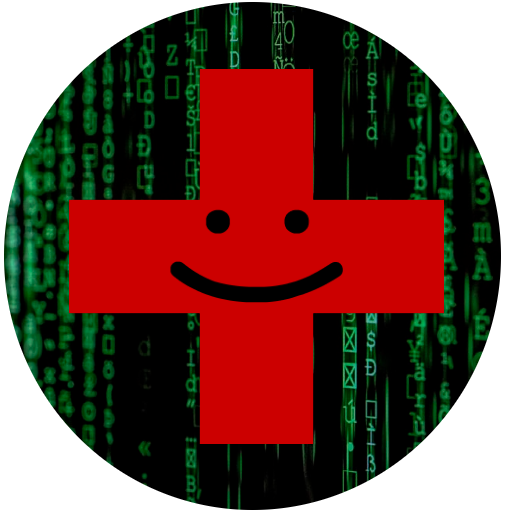
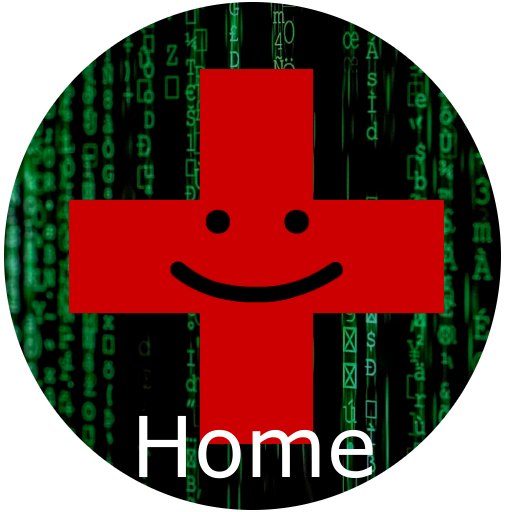
Navigatie aangepast

Changed region(s): [[0.25, 0.8125, 0.75, 0.9375]]

diff --git a/style.css b/style.css
@@ -14,7 +14,7 @@ body {
 
 .homeimage {
   position: relative;
-  top:  80px;
+  top:  0px;
   left: 5px;
 height: 75px;
 width: 75px;
@@ -48,6 +48,15 @@ align-items: center;
 /* Navigation links */
 .nav a {
   float: left;
+  font-size: 16px;
+  color: white;
+  text-align: center;
+  padding: 14px 16px;
+  text-decoration: none;
+}
+
+.subnavbtn {
+  float: center;
   font-size: 16px;
   color: white;
   text-align: center;
@@ -124,6 +133,7 @@ label {
   display:none;
 }
 
+
 @media only screen and (max-width: 500px) {
 label{
   display: block;
@@ -136,6 +146,10 @@ label{
   display: none;
 }
 
+.subnav {
+  float: left;
+  overflow: hidden;
+}
 
 .navall a {
   display: block;
@@ -143,9 +157,42 @@ label{
   width: 100%;
 }
 
-#toggle:checked + .navall {
+.nav a {
+  float: left;
+  font-size: 16px;
+  color: white;
+  text-align: left;
+  padding: 14px 16px;
+  text-decoration: none;
+}
+
+.subnavbtn {
+  float: center;
+  font-size: 16px;
+  color: white;
+  text-align: center;
+  padding: 14px 16px;
+  text-decoration: none;
+}
+
+.navall{
+  display: flex;
+  flex-direction: column;
+  align-items: center;
+  overflow: hidden;
+  display: none;
+}
+
+.subnav {
+  float: center;
+  overflow: hidden;
+
+}
+
+#toggle:checked + .navall  {
   display: block;
- 
+  
+
 }
 }
 

diff --git a/bronvermelding.html b/bronvermelding.html
@@ -32,7 +32,6 @@
   <label for="toggle">&#9776;</label>
   <input type="checkbox" id="toggle"/>
   <div class="navall">
-  <a href="index.html">Home</a>
   <div class="subnav">
     <button class="subnavbtn">Informatie <i class="fa fa-caret-down"></i></button>
     <div class="subnav-content">

diff --git a/contactpagina.html b/contactpagina.html
@@ -31,7 +31,6 @@
   <label for="toggle">&#9776;</label>
   <input type="checkbox" id="toggle"/>
   <div class="navall">
-  <a href="index.html">Home</a>
   <div class="subnav">
     <button class="subnavbtn">Informatie <i class="fa fa-caret-down"></i></button>
     <div class="subnav-content">

diff --git a/hetbelang.html b/hetbelang.html
@@ -31,7 +31,6 @@
   <label for="toggle">&#9776;</label>
   <input type="checkbox" id="toggle"/>
   <div class="navall">
-  <a href="index.html">Home</a>
   <div class="subnav">
     <button class="subnavbtn">Informatie <i class="fa fa-caret-down"></i></button>
     <div class="subnav-content">

diff --git a/index.html b/index.html
@@ -34,7 +34,6 @@
   <label for="toggle">&#9776;</label>
   <input type="checkbox" id="toggle"/>
   <div class="navall">
-  <a href="index.html">Home</a>
   <div class="subnav">
     <button class="subnavbtn">Informatie <i class="fa fa-caret-down"></i></button>
     <div class="subnav-content">

diff --git a/overons.html b/overons.html
@@ -31,7 +31,6 @@
   <label for="toggle">&#9776;</label>
   <input type="checkbox" id="toggle"/>
   <div class="navall">
-  <a href="index.html">Home</a>
   <div class="subnav">
     <button class="subnavbtn">Informatie <i class="fa fa-caret-down"></i></button>
     <div class="subnav-content">

diff --git a/plaatjes.html b/plaatjes.html
@@ -31,7 +31,6 @@
   <label for="toggle">&#9776;</label>
   <input type="checkbox" id="toggle"/>
   <div class="navall">
-  <a href="index.html">Home</a>
   <div class="subnav">
     <button class="subnavbtn">Informatie <i class="fa fa-caret-down"></i></button>
     <div class="subnav-content">

diff --git a/voorbeelden.html b/voorbeelden.html
@@ -31,7 +31,6 @@
   <label for="toggle">&#9776;</label>
   <input type="checkbox" id="toggle"/>
   <div class="navall">
-  <a href="index.html">Home</a>
   <div class="subnav">
     <button class="subnavbtn">Informatie <i class="fa fa-caret-down"></i></button>
     <div class="subnav-content">

diff --git a/watishet.html b/watishet.html
@@ -32,7 +32,6 @@
   <label for="toggle">&#9776;</label>
   <input type="checkbox" id="toggle"/>
   <div class="navall">
-  <a href="index.html">Home</a>
   <div class="subnav">
     <button class="subnavbtn">Informatie <i class="fa fa-caret-down"></i></button>
     <div class="subnav-content">
